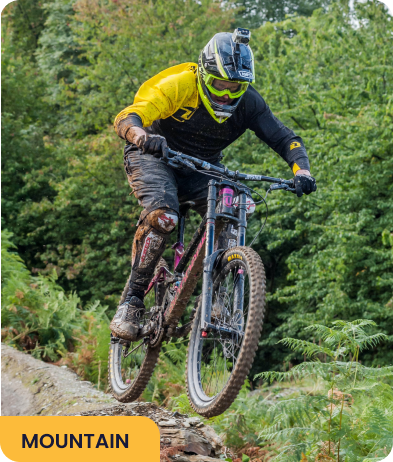
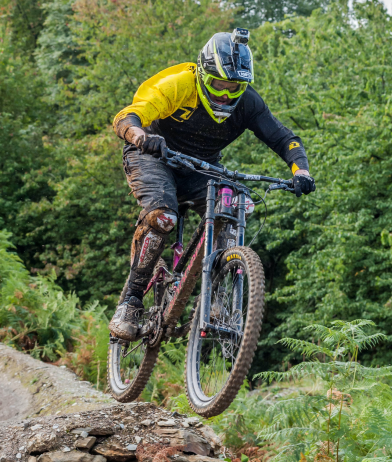
first github project

diff --git a/index.html b/index.html
@@ -21,7 +21,7 @@
     <header>
      <nav class="navbar navbar-expand-lg navbar-light">
         <div class="container">
-        <a class="navbar-brand" href="#">BIKESTRORE</a>
+        <a class="navbar-brand" href="#">BIKESTORE</a>
         <button class="navbar-toggler" type="button" data-toggle="collapse" data-target="#navbarNav" aria-controls="navbarNav" aria-expanded="false" aria-label="Toggle navigation">
         
             <span class="navbar-toggler-icon"></span>
@@ -84,7 +84,7 @@
         <div class="row mt-4">
           <div class="col-4 component-categories">
             <div class="tag">
-              <span>Mountain</span>
+              <span>MOUNTAIN</span>
             </div>
             <a href="#">
               <div class="categories-thumbnail">
@@ -94,7 +94,7 @@
           </div>
           <div class="col-3 component-categories">
             <div class="tag">
-              <span>Mountain</span>
+              <span>ROAD</span>
             </div>
             <a href="#">
               <div class="categories-thumbnail">
@@ -106,7 +106,7 @@
             <div class="row">
               <div class="col-12 component-categories">
             <div class="tag">
-              <span>Mountain</span>
+              <span>URBAN</span>
             </div>
             <a href="#">
               <div class="categories-thumbnail-small">
@@ -116,7 +116,7 @@
           </div>
           <div class="col-12 component-categories">
             <div class="tag">
-              <span>Mountain</span>
+              <span>JUNIOR</span>
             </div>
             <a href="#">
               <div class="categories-thumbnail-small">
@@ -129,6 +129,7 @@
       </div>
     </section>
     <!-- Tutup Trend Categories -->
+    <br><br><br>
 
     <!-- Popular Products -->
     <section class="popular-products">

diff --git a/frontend/styles/main.css b/frontend/styles/main.css
@@ -75,7 +75,7 @@
     font-family: 'Poppins';
     font-style: normal;
     font-weight: 600;
-    font-size: 18px;
+    font-size: 16px;
     color: #171938;
  }
 
